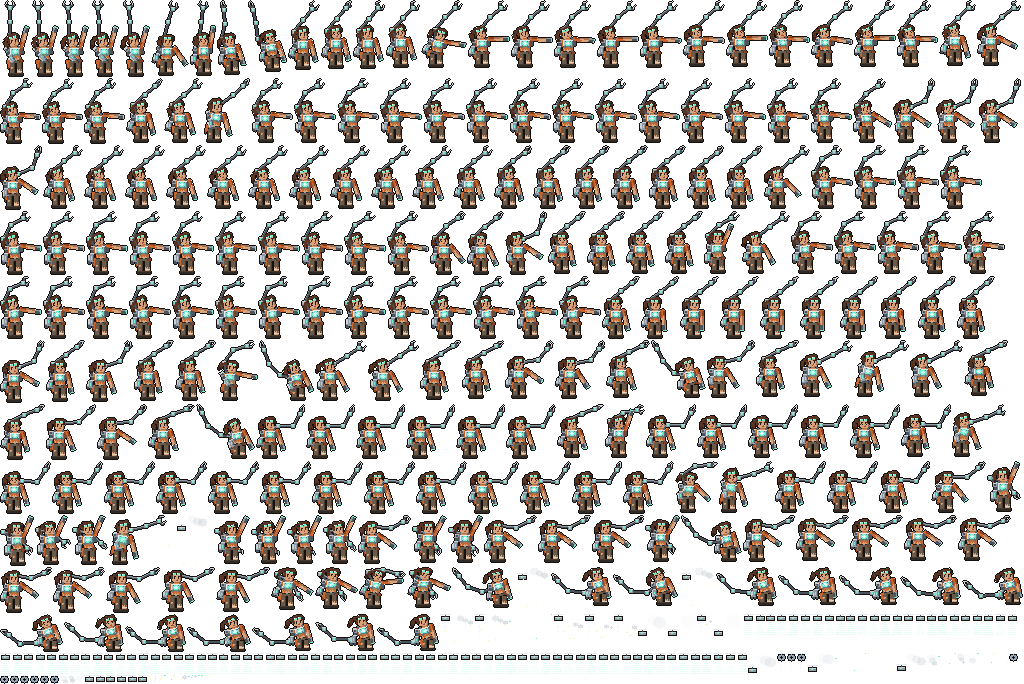
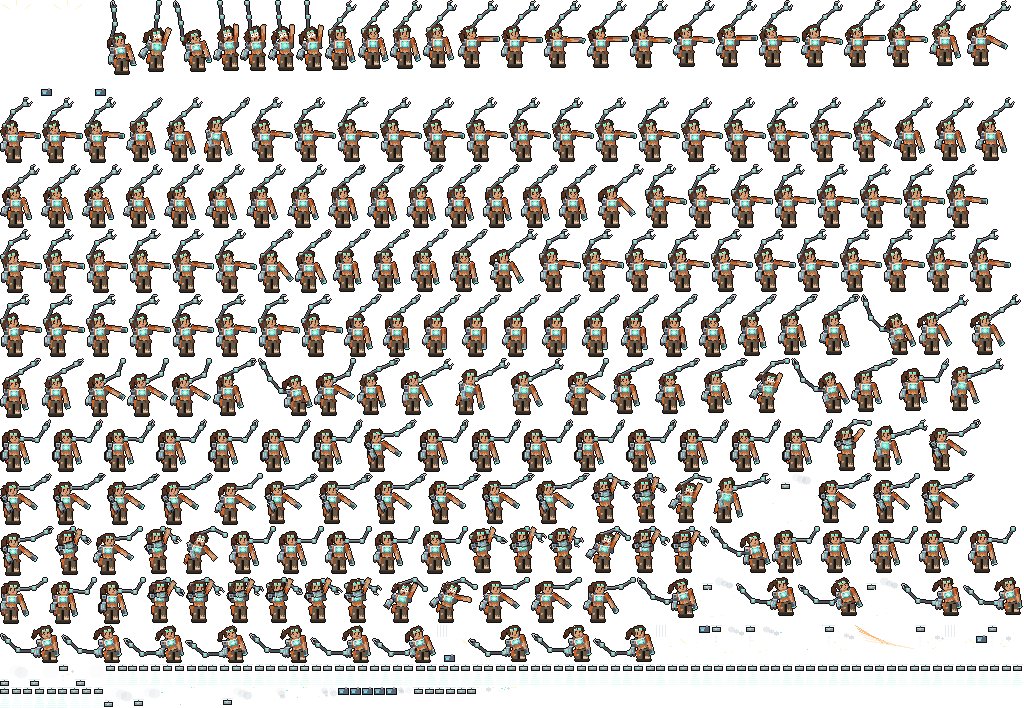
Rebuild Tilly's hangar act after the original strip (work in progress)
The act follows the beats of the original strip: the third arm shoots up and
its claw tears off, she is shocked, the piece falls, she swings her left arm
and holds it up. The rig gets switches for it (noClaw, shock, noGun,
armBFront with an outlined part), all off by default so the map sheets do not
change. Known gap: the arm parts are too short in proportion to the original.

Also: a restyle workflow with ControlNet tile (tilly-restyle.json) and guides
from a strip (STRIP_FILE in render-pose-guides.mjs).

diff --git a/docs/design/heroes/tools/hangar-controller.js b/docs/design/heroes/tools/hangar-controller.js
@@ -27,38 +27,51 @@ const H_IDLE = {
   front(S, t, info) { sparks(S, info.hold.x, info.hold.y, (t - 1600) * 2, 'rgba(111,240,208,.9)', 3); }
 };
 
-/* ---------- act: tinkering. The arm folds over her head and works, shoots up and throws a gear, she steams, wrenches with her left arm ---------- */
-const LOOP = { g1: -48, g2: 112, g3: 150 };
+/* ---------- act: the original of the hangar strip. She works on the third arm with both hands over her head (frames 0 to 12), it shoots up and its claw tears
+ off and flies away (13 to 17), she is shocked while the piece falls and the arm folds back (18 to 21), swings her left arm at it (22, 23), holds the arm up
+ (24) and is back at work (25, 26). One frame of the strip is 100 ms. ---------- */
+const LOOP = { g1: -15, g2: 70, g3: 135 };
+const FR = n => n * 100;
 const H_ACT = {
   tracks: {
-    g1: K([0, LOOP.g1], [550, LOOP.g1 - 6], [700, LOOP.g1 + 10, 'out'], [1050, LOOP.g1], [1250, -6, 'out'], [1650, -3], [1750, -14, 'back'], [1900, LOOP.g1 + 8], [2150, LOOP.g1], [2500, -4, 'out'], [2700, LOOP.g1]),
-    g2: K([0, LOOP.g2], [550, LOOP.g2 + 8], [700, LOOP.g2 - 10, 'out'], [1050, LOOP.g2], [1250, 6, 'out'], [1650, 4], [1750, 30, 'back'], [1900, LOOP.g2 + 6], [2150, LOOP.g2], [2500, 8, 'out'], [2700, LOOP.g2]),
-    g3: K([0, LOOP.g3], [550, LOOP.g3 + 10], [700, LOOP.g3 - 12, 'out'], [1050, LOOP.g3], [1250, 4, 'out'], [1650, 2], [1750, 60, 'back'], [1900, LOOP.g3 - 6], [2150, LOOP.g3], [2500, 10, 'out'], [2700, LOOP.g3]),
-    claw: K([0, .3], [500, 1], [600, .1], [700, 1], [800, .1], [1050, .5], [1250, 1], [1650, 1], [1750, 0], [2150, .4], [2500, 1], [2700, .3]),
-    armF: K([0, -150], [1100, -150], [1250, -158, 'out'], [1650, -158], [1900, -60, 'back'], [2150, -70], [2250, -112, 'out'], [2400, -40], [2500, -168, 'back'], [2700, -150]),
-    armB: K([0, 6], [1100, 6], [1250, -40], [1650, -40], [1900, 14], [2700, 6]),
-    head: K([0, 2], [550, -5], [1100, 5], [1250, -10, 'out'], [1650, -10], [1750, 8, 'out'], [2150, 6], [2500, -8], [2700, 2]),
-    lean: K([0, 0], [1250, -5, 'out'], [1650, -5], [1750, 3, 'out'], [2150, 3], [2300, 12, 'out'], [2500, -2], [2700, 0]),
-    stretch: K([0, 1], [600, 1.03], [1250, 1.08, 'out'], [1650, 1.08], [1750, .93, 'out'], [1900, 1], [2300, .94, 'out'], [2500, 1.05], [2700, 1]),
-    pony: K([0, 0], [700, 10], [1250, -16, 'out'], [1750, 20, 'out'], [2300, 8], [2500, -20, 'out'], [2700, 0]),
-    core: K([0, 1], [1250, 1.8], [1750, 2.4, 'in'], [2150, 1.6], [2700, 1])
+    // the third arm: an arch over her head that rocks while she works, straight up when it tears, folded back, angled when she holds it up
+    g1: K([0, LOOP.g1], [FR(6), LOOP.g1 - 10], [FR(7), LOOP.g1 + 6, 'out'], [FR(9), LOOP.g1 - 12], [FR(10), LOOP.g1 + 4, 'out'], [FR(12), LOOP.g1], [FR(13), -3, 'out'], [FR(17), -1], [FR(18), -20, 'back'], [FR(20), LOOP.g1 + 6], [FR(24), LOOP.g1 + 14], [FR(24.5), -26, 'out'], [FR(25), LOOP.g1]),
+    g2: K([0, LOOP.g2], [FR(6), LOOP.g2 + 10], [FR(7), LOOP.g2 - 6, 'out'], [FR(9), LOOP.g2 + 8], [FR(10), LOOP.g2 - 8, 'out'], [FR(12), LOOP.g2], [FR(13), 2, 'out'], [FR(17), 4], [FR(18), 40, 'back'], [FR(20), LOOP.g2 - 6], [FR(24), LOOP.g2 - 20], [FR(24.5), 10, 'out'], [FR(25), LOOP.g2]),
+    g3: K([0, LOOP.g3], [FR(7), LOOP.g3 - 10], [FR(10), LOOP.g3 + 8], [FR(12), LOOP.g3], [FR(13), 0, 'out'], [FR(17), 2], [FR(18), 70, 'back'], [FR(20), LOOP.g3 - 10], [FR(24), LOOP.g3 - 40], [FR(24.5), 14, 'out'], [FR(25), LOOP.g3]),
+    claw: K([0, .3], [FR(2), 1], [FR(3), .1], [FR(5), .9], [FR(6), .2], [FR(9), 1], [FR(10), .2], [FR(12), .5], [FR(24), .8], [FR(27), .3]),
+    armF: K([0, -150], [FR(12), -150], [FR(13), -168, 'out'], [FR(21), -160], [FR(22), -92, 'back'], [FR(23), -58, 'out'], [FR(23.9), -62], [FR(24.2), -170, 'out'], [FR(25), -150], [FR(27), -150]),
+    // her robot arm reaches across her chest, below her face, to hold the end of the third arm
+    armB: K([0, -100], [FR(12), -100], [FR(13), 24], [FR(22), 24], [FR(24), -100], [FR(27), -100]),
+    armBFront: K([0, 1], [FR(13) - 1, 1], [FR(13), 0, 'step'], [FR(24) - 1, 0], [FR(24), 1, 'step']),
+    head: K([0, 2], [FR(12), 2], [FR(13), -10, 'out'], [FR(17), -12], [FR(18), 8], [FR(21), 10], [FR(22), 14], [FR(24), -6], [FR(27), 2]),
+    lean: K([0, 0], [FR(13), -8, 'out'], [FR(16), -6], [FR(18), 6, 'out'], [FR(21), 8], [FR(22), 14, 'out'], [FR(23), 16], [FR(24), -2], [FR(27), 0]),
+    stretch: K([0, 1], [FR(13), 1.09, 'out'], [FR(17), 1.06], [FR(18), .93, 'out'], [FR(21), .95], [FR(24), 1.05], [FR(27), 1]),
+    pony: K([0, 0], [FR(13), -22, 'out'], [FR(16), 12], [FR(18), 24, 'out'], [FR(22), -10], [FR(24), -18], [FR(27), 0]),
+    core: K([0, 1], [FR(13), 2.2, 'in'], [FR(18), 2.6], [FR(22), 1.4], [FR(27), 1]),
+    // the claw is off from the moment the arm shoots up until she has it back; she is shocked while the piece flies and falls
+    // empty hands: the emitter of her left arm is not in her hand while she works
+    noGun: K([0, 1], [FR(27), 1]),
+    noClaw: K([0, 0], [FR(13) - 1, 0], [FR(13), 1, 'step'], [FR(24.5) - 1, 1], [FR(24.5), 0, 'step']),
+    shock: K([0, 0], [FR(13) - 1, 0], [FR(13), 1, 'step'], [FR(24) - 1, 1], [FR(24), 0, 'step'])
   },
   back(S, t, info) {
-    // Steam from the arm joint while she is startled (1750 to 2300 ms).
-    for (let k = 0; k < 3; k++) { const age = t - 1750 - k * 160; S.puff(info.elbow.x - 4 - age * .01, info.elbow.y - age * .02, age, 520, 3); }
+    // steam from the joint where the claw tore off (frames 16 to 19)
+    for (let k = 0; k < 3; k++) { const age = t - FR(16) - k * 120; S.puff(info.claw.x - 3 + k, info.claw.y + 16 - age * .02, age, 460, 3); }
   },
   front(S, t, info) {
-    const GEAR = '#9aa6b2', INK = '#0b0f15';
-    // The gear is thrown up by the arm at 1250 ms, hangs, and falls back at 1750 ms.
-    const a = t - 1250;
-    if (a >= 0 && a < 1000) {
-      const rise = a < 300 ? a * .22 : 66 - (a - 300) * .02, y = a < 700 ? info.claw.y - 4 - Math.min(rise, 26) : info.claw.y - 30 + (a - 700) * .09, x = info.claw.x + 4 + a * .01;
-      S.disc(x, y, 4, INK); S.disc(x, y, 3, GEAR); S.disc(x, y, 1, INK); S.rect(x - 1, y - 4, 3, 1, '#e6edf2');
-      if (a < 320) for (let i = 1; i < 4; i++) S.rect(x - 1, y + 4 + i * 3, 1, 2, 'rgba(230,237,242,' + (.6 - i * .15).toFixed(2) + ')');
-    }
-    sparks(S, info.hold.x, info.hold.y, t - 100, GLOW + '.9)', 2);
-    sparks(S, info.hold.x, info.hold.y, t - 700, '#fff3c0', 2);
-    if (t > 2300 && t < 2480) for (let k = 0; k < 3; k++) S.line(info.hold.x - 4 + k * 4, info.hold.y - 4, info.hold.x - 7 + k * 7, info.hold.y - 9, '#fff3c0');
+    const INK = '#0b0f15';
+    const piece = (x, y) => { S.rect(x - 5, y - 3, 11, 7, INK); S.rect(x - 4, y - 2, 9, 5, '#5a6672'); S.rect(x - 4, y - 2, 5, 2, '#9aa6b2'); S.rect(x - 3, y, 3, 2, '#6ae0ff'); S.rect(x + 2, y - 4, 2, 2, '#9aa6b2'); };
+    // the piece flies off up and to the right (13 to 15), hangs at the top (16, 17), falls (18 to 20), bounces and lies on the floor (20 to 22)
+    const rise = (t - FR(13)) / FR(1.5);
+    if (t >= FR(13) && t < FR(18)) { const u = Math.max(0, Math.min(1, rise)); piece(Math.round(info.claw.x + 6 + (30 - info.claw.x - 6) * u), Math.round(info.claw.y - 4 + (-100 - info.claw.y + 4) * u + (t > FR(15.5) ? 2 * Math.sin(t / 60) : 0))); }
+    if (t >= FR(18) && t < FR(22.9)) { const u = Math.min(1, (t - FR(18)) / FR(2)); let y = -100 + 92 * u * u; if (t > FR(20)) y = -8 - 5 * Math.sin(Math.min(1, (t - FR(20)) / FR(.6)) * Math.PI); piece(30 + (t > FR(20) ? 3 : 0), Math.round(y)); }
+    // speed lines and a spark where it tears off, shock strokes over her head, the streak of the swing
+    if (t >= FR(13) && t < FR(16)) { for (let i = 0; i < 4; i++) S.rect(-18 + i * 3, -104, 1, 12, '#e6edf2'); sparks(S, 8, -87, (t - FR(13)) * 1.2, '#fff3c0', 3); S.line(6, -90, 11, -86, '#fff3c0'); }
+    if (t >= FR(20) && t < FR(22)) { S.line(-14, -96, -8, -92, '#fff3c0'); S.rect(0, -100, 1, 5, '#fff3c0'); S.line(14, -96, 9, -92, '#fff3c0'); }
+    if (t >= FR(23) && t < FR(24)) for (let i = 0; i < 6; i++) { S.line(info.muzzle.x - 30 + i * 2, info.muzzle.y - 18 + i * 3, info.muzzle.x - 2 + i * 6, info.muzzle.y + i, i < 3 ? 'rgba(255,170,90,.75)' : 'rgba(255,230,200,.7)'); }
+    if (t >= FR(24) && t < FR(24.6)) piece(info.muzzle.x + 1, info.muzzle.y - 7);
+    sparks(S, info.hold.x, info.hold.y, t - FR(2), '#fff3c0', 2);
+    sparks(S, info.hold.x, info.hold.y, t - FR(25), '#fff3c0', 2);
   }
 };
 

diff --git a/docs/design/heroes/tools/rigs/controller.js b/docs/design/heroes/tools/rigs/controller.js
@@ -51,11 +51,22 @@ const ARM_F = part(-1, -1, 1, 20, R => {   // her left arm: skin, frayed sleeve,
   R(-1, 13, 3, 6, P.metalLo); R(1, 13, 1, 6, P.metal); R(-1, 19, 3, 1, P.glow);
   R(-1, 11, 3, 3, SK.skin); R(1, 11, 1, 3, SK.skinLo);
 });
+const ARM_F_BARE = part(-1, -1, 1, 15, R => {   // the same arm without the emitter: a bare hand (the hangar's act clip, where she works with empty hands)
+  R(-1, 0, 3, 12, SK.skin); R(1, 0, 1, 12, SK.skinLo); R(-1, -1, 3, 6, P.cloth); R(1, 0, 1, 5, P.clothLo); R(-1, 5, 1, 2, P.cloth);
+  R(-2, 11, 5, 4, SK.skin); R(2, 11, 1, 4, SK.skinLo); R(-2, 14, 5, 1, SK.skinLo);
+});
 const HEAD = part(-5, -12, 5, 0, R => {
   R(-4, -9, 9, 8, SK.skin); R(4, -9, 1, 7, SK.skinLo); R(-4, -2, 1, 1, null); R(4, -2, 1, 1, null); R(-2, -1, 5, 1, SK.skinLo);
   R(-2, -6, 1, 2, SK.eye); R(2, -6, 1, 2, SK.eye); R(-2, -7, 2, 1, P.hairLo); R(2, -7, 2, 1, P.hairLo);
   R(1, -4, 1, 1, SK.skinLo); R(0, -3, 2, 1, SK.lip);
   R(-5, -12, 11, 4, P.hair); R(-5, -12, 1, 1, null); R(5, -12, 1, 1, null); R(-5, -8, 2, 4, P.hair); R(4, -8, 2, 2, P.hairLo); R(-3, -9, 4, 1, P.hairLo);
+  R(-5, -10, 11, 2, '#2a2420'); R(-3, -10, 3, 2, P.glow); R(1, -10, 3, 2, P.glow); R(-3, -10, 1, 1, '#ffffff'); R(1, -10, 1, 1, '#ffffff');
+});
+const HEAD_SHOCK = part(-5, -12, 5, 0, R => {
+  R(-4, -9, 9, 8, SK.skin); R(4, -9, 1, 7, SK.skinLo); R(-4, -2, 1, 1, null); R(4, -2, 1, 1, null);
+  R(-5, -12, 11, 4, P.hair); R(-5, -12, 1, 1, null); R(5, -12, 1, 1, null); R(-5, -8, 2, 4, P.hair); R(4, -8, 2, 2, P.hairLo); R(-3, -9, 4, 1, P.hairLo);
+  R(-3, -7, 3, 3, '#ffffff'); R(1, -7, 3, 3, '#ffffff'); R(-2, -6, 1, 1, SK.eye); R(2, -6, 1, 1, SK.eye);
+  R(-1, -3, 3, 2, '#5a1a1a'); R(0, -2, 1, 1, SK.lip);
   R(-5, -10, 11, 2, '#2a2420'); R(-3, -10, 3, 2, P.glow); R(1, -10, 3, 2, P.glow); R(-3, -10, 1, 1, '#ffffff'); R(1, -10, 1, 1, '#ffffff');
 });
 const PONY = part(-5, -1, 0, 8, R => { R(-3, -1, 4, 3, P.hair); R(-5, 1, 3, 6, P.hair); R(-5, 6, 2, 3, P.hairLo); });
@@ -83,13 +94,24 @@ function poseAt(clip, t) {
 }
 
 
-Object.assign(REST, { armB: 6, pony: 0, g1: G1, g2: G2, g3: G3, claw: .5, gripFront: 0, core: 1, violet: 0, cigarOff: 1, scrap: 0 });
+Object.assign(REST, { armB: 6, pony: 0, g1: G1, g2: G2, g3: G3, claw: .5, gripFront: 0, core: 1, violet: 0, cigarOff: 1, scrap: 0, noClaw: 0, shock: 0, noGun: 0, armBFront: 0 });
 
 /* ---------- figure renderer ---------- */
 const fig = document.createElement('canvas'); fig.width = SW; fig.height = SH;
 const fctx = fig.getContext('2d', { willReadFrequently: true });
 const rad = d => d * Math.PI / 180;
 function put(s) { fctx.drawImage(s.c, s.x, s.y); }
+/** A part with its own dark outline, for a part that lies in front of the body (the outline of the figure is drawn only around the whole figure, so it would merge with the grey of the chest plate). */
+const silhouettes = new WeakMap();
+function putOutlined(s) {
+  if (!silhouettes.has(s)) {
+    const c = document.createElement('canvas'); c.width = s.c.width; c.height = s.c.height;
+    const g = c.getContext('2d'); g.drawImage(s.c, 0, 0); g.globalCompositeOperation = 'source-in'; g.fillStyle = 'rgb(' + P.outline.join(',') + ')'; g.fillRect(0, 0, c.width, c.height);
+    silhouettes.set(s, c);
+  }
+  for (const [dx, dy] of [[-1, 0], [1, 0], [0, -1], [0, 1]]) fctx.drawImage(silhouettes.get(s), s.x + dx, s.y + dy);
+  put(s);
+}
 function world(x, y) { const q = fctx.getTransform().transformPoint(new DOMPoint(x, y)); return { x: Math.round(q.x - OX), y: Math.round(q.y - OY) }; }
 function block(x, y, w, h, c) { fctx.fillStyle = c; fctx.fillRect(OX + Math.round(x), OY + Math.round(y), w, h); }
 function stroke(a, b, th, c, hi) {
@@ -103,7 +125,7 @@ function drawGrip(base, tilt, p, info) {
   const pts = [base]; [p.g1, p.g2, p.g3].forEach((g, i) => pts.push(polar(pts[i], tilt + g, SEG[i])));
   for (let i = 0; i < 3; i++) stroke(pts[i], pts[i + 1], 2, P.metalLo, P.metal);
   const e = pts[3], dir = tilt + p.g3, open = 14 + 42 * p.claw;
-  for (const s of [-1, 1]) { const k = polar(e, dir + s * open, 5), tip = polar(k, dir - s * 20, 4); stroke(e, k, 2, P.metalLo); stroke(k, tip, 1, P.metalHi); }
+  if (!p.noClaw) for (const s of [-1, 1]) { const k = polar(e, dir + s * open, 5), tip = polar(k, dir - s * 20, 4); stroke(e, k, 2, P.metalLo); stroke(k, tip, 1, P.metalHi); }
   [pts[1], pts[2], e].forEach(q => { block(q.x - 1, q.y - 1, 4, 4, P.metal); block(q.x - 1, q.y - 1, 4, 1, P.metalHi); block(q.x, q.y, 2, 2, p.core > .2 ? P.glow : P.metalLo); });
   const h = polar(e, dir, 6);
   info.claw = { x: Math.round(e.x), y: Math.round(e.y) }; info.hold = { x: Math.round(h.x), y: Math.round(h.y) }; info.elbow = { x: Math.round(pts[2].x), y: Math.round(pts[2].y) };
@@ -132,14 +154,16 @@ function drawFigure(p) {
   torso();
   put(p.core <= .2 ? TORSO_OFF : p.violet > .5 ? TORSO_V : p.scrap > .5 ? TORSO_S : TORSO);
   info.core = world(0, -10);
-  fctx.save(); fctx.translate(-8, -13); fctx.rotate(rad(p.armB)); put(ARM_B); info.wrist = world(-1, 9); fctx.restore();
-  const armF = () => { fctx.save(); fctx.translate(7, -14); fctx.rotate(rad(p.armF)); put(ARM_F); info.muzzle = world(0, 22); fctx.restore(); };
+  const armB = () => { fctx.save(); fctx.translate(-8, -13); fctx.rotate(rad(p.armB)); (p.armBFront ? putOutlined : put)(ARM_B); info.wrist = world(-1, 9); fctx.restore(); };
+  if (!p.armBFront) armB();
+  const armF = () => { fctx.save(); fctx.translate(7, -14); fctx.rotate(rad(p.armF)); put(p.noGun > .5 ? ARM_F_BARE : ARM_F); info.muzzle = world(0, p.noGun > .5 ? 14 : 22); fctx.restore(); };
   if (!p.armFront) armF();
   fctx.save(); fctx.translate(Math.round(p.headDx), -15 + Math.round(p.headDy)); fctx.rotate(rad(p.head)); fctx.scale(p.flip, 1);
   fctx.save(); fctx.translate(-5, -9); fctx.rotate(rad(p.pony)); put(PONY); fctx.restore();
-  put(HEAD); info.top = world(0, -13);
+  put(p.shock > .5 ? HEAD_SHOCK : HEAD); info.top = world(0, -13);
   fctx.restore();
   if (p.armFront) armF();
+  if (p.armBFront) armB();   // her robot arm passes in front of her face
   if (p.gripFront) grip();
 
   fctx.setTransform(1, 0, 0, 1, 0, 0);
